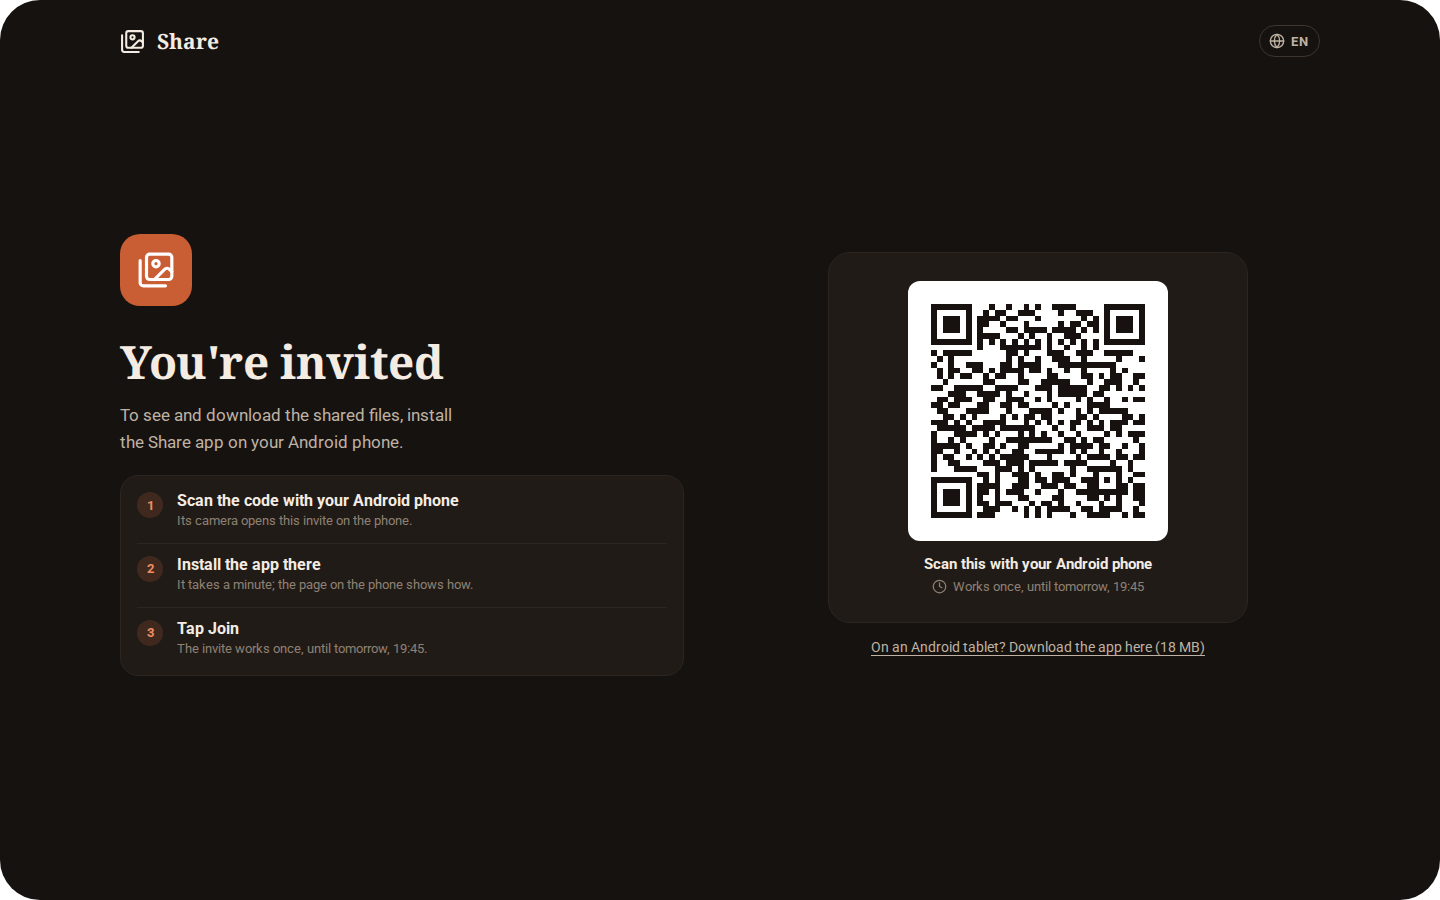
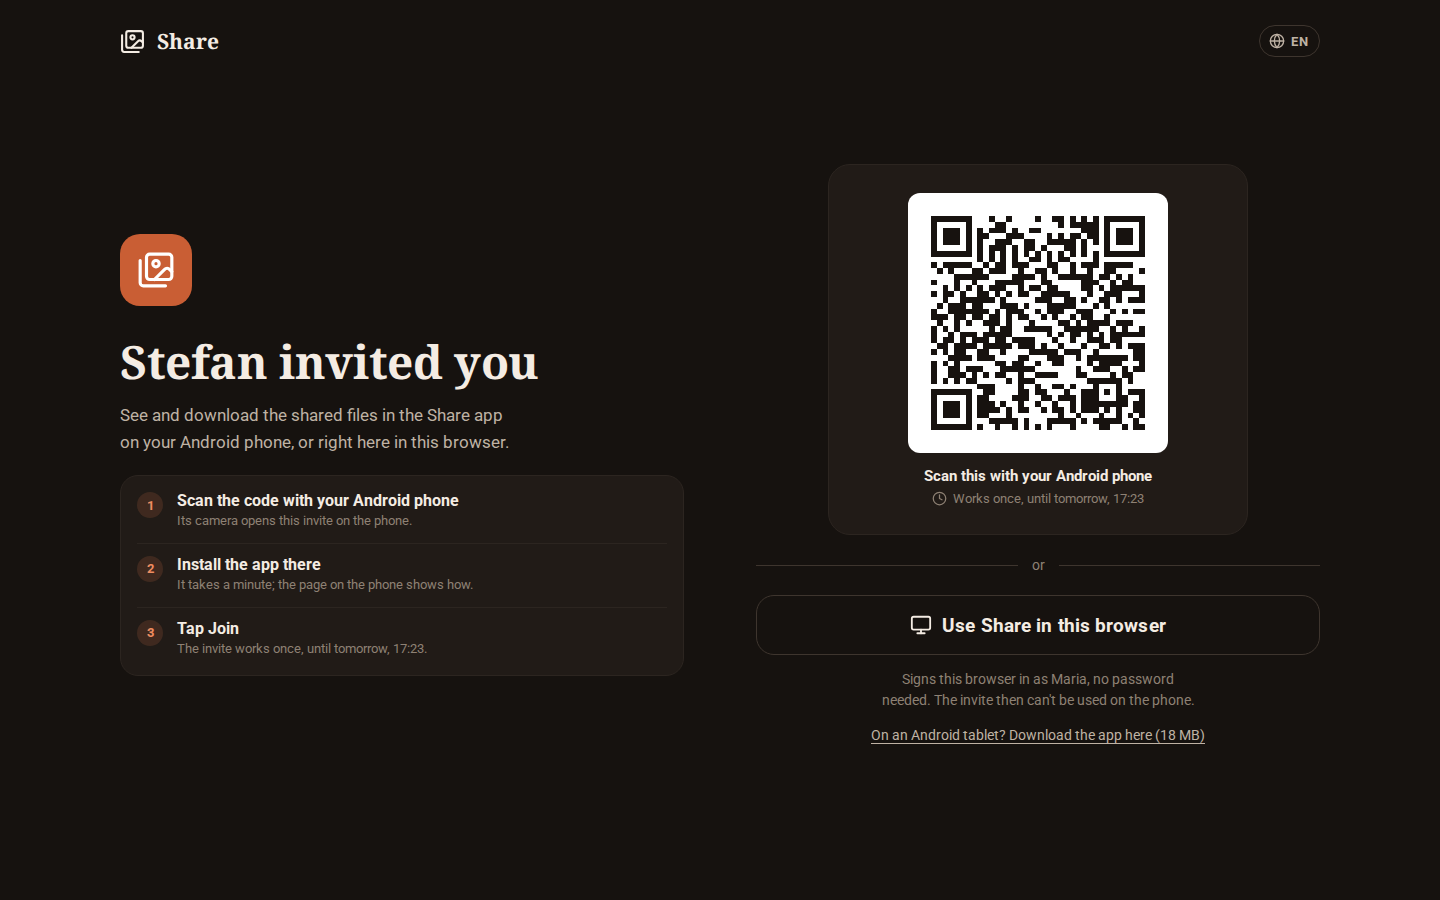
Describe the website for people with an account, with screenshots
The README says that everything the app does works in a browser too, shows
it on a phone and a computer (the library, selecting, one file, saving into a
folder, an admin's settings and PINs, and joining on an iPhone), and lists it
in the status. The invite page's screenshots now show the way into the
browser, and the plan describes browser sessions and downloads.

diff --git a/README.md b/README.md
@@ -5,10 +5,11 @@ A self-hosted place where family and friends drop photos, videos and documents.
 - **Sending** works in any browser with a 5-character PIN: no app, no account. Uploads go in
   pieces and continue after a dropped connection, so videos of several gigabytes get through,
   also behind Cloudflare's 100 MB request limit.
-- **Seeing and downloading** everything is for people with an account, in an Android app.
-  They join with an invite, without a password, and send from the app too. At home the app uses
-  the server's local address and skips the internet. Admins manage PINs and people there, and
-  deleted files wait 30 days in Recently deleted.
+- **Seeing and downloading** everything is for people with an account, in the Android app or in
+  any browser, on iPhones and computers too. They join with an invite, without a password, and
+  send from there as well, without a PIN. At home the app uses the server's local address and skips
+  the internet. Admins manage PINs and people in either, and deleted files wait 30 days in Recently
+  deleted.
 - Files are stored unchanged in one folder per upload day: `<storage_dir>/2026-09-30/IMG_0001.jpg`.
 
 The server is one Go program without dependencies at runtime. It runs on a router or another
@@ -23,7 +24,7 @@ small Linux machine with a USB drive, or on a VPS. The website is embedded in it
     <td align="center"><img src="docs/screenshots/web-pin.png" width="180" alt="Enter your PIN, with three of the five characters typed"><br><sub>Entering the PIN</sub></td>
     <td align="center"><img src="docs/screenshots/web-ready.png" width="180" alt="Send your files: this PIN works until tomorrow, 08:06"><br><sub>Ready, with a 24-hour PIN</sub></td>
     <td align="center"><img src="docs/screenshots/web-sending.png" width="180" alt="Sending your files: 5 of 12, about 3 minutes left"><br><sub>Sending</sub></td>
-    <td align="center"><img src="docs/screenshots/web-join.png" width="180" alt="Stefan invited you: download the app, install it, come back and tap Join"><br><sub>An invite, before the app is installed</sub></td>
+    <td align="center"><img src="docs/screenshots/web-join.png" width="180" alt="Stefan invited you: download the app, install it, come back and tap Join, or use Share in this browser"><br><sub>An invite, on Android</sub></td>
   </tr>
 </table>
 
@@ -35,8 +36,34 @@ small Linux machine with a USB drive, or on a VPS. The website is embedded in it
     <td align="center"><img src="docs/screenshots/web-computer-sending.png" width="380" alt="Sending 6 of 24 files, the progress beside the tiles"><br><sub>Sending, the progress in view</sub></td>
   </tr>
   <tr>
-    <td align="center"><img src="docs/screenshots/web-computer-join.png" width="380" alt="An invite opened on a computer, as a QR code to scan with the Android phone"><br><sub>An invite on a computer, for the phone</sub></td>
+    <td align="center"><img src="docs/screenshots/web-computer-join.png" width="380" alt="An invite opened on a computer: a QR code to scan with the Android phone, or Use Share in this browser"><br><sub>An invite on a computer: the phone or this browser</sub></td>
     <td align="center"><img src="docs/screenshots/web-tablet-sending.png" width="264" alt="Sending on a tablet: one card, five tiles to a row"><br><sub>Sending on a tablet</sub></td>
+  </tr>
+</table>
+
+**The website, for people with an account**, does what the app does:
+
+<table>
+  <tr>
+    <td align="center"><img src="docs/screenshots/web-join-iphone.png" width="180" alt="An invite on an iPhone: this browser will be signed in as Maria, with the button Use Share in this browser"><br><sub>Joining in the browser, on an iPhone</sub></td>
+    <td align="center"><img src="docs/screenshots/web-library.png" width="180" alt="The library on a phone, by upload day"><br><sub>The library, by day</sub></td>
+    <td align="center"><img src="docs/screenshots/web-select.png" width="180" alt="Eight files selected, with Delete and Download 8 at the bottom"><br><sub>Selecting many</sub></td>
+    <td align="center"><img src="docs/screenshots/web-viewer.png" width="180" alt="One photo, with the film strip, Download, Details and Delete"><br><sub>One file</sub></td>
+  </tr>
+</table>
+
+<table>
+  <tr>
+    <td align="center"><img src="docs/screenshots/web-computer-library.png" width="380" alt="The library on a computer, eight tiles to a row, with the search in the header"><br><sub>The library on a computer</sub></td>
+    <td align="center"><img src="docs/screenshots/web-computer-select.png" width="380" alt="Twelve files selected, the actions floating at the bottom"><br><sub>Selecting with the mouse and Shift</sub></td>
+  </tr>
+  <tr>
+    <td align="center"><img src="docs/screenshots/web-computer-save.png" width="380" alt="Saving 12 files into the folder Share, a folder for each day"><br><sub>Saving into a folder, in Chrome and Edge</sub></td>
+    <td align="center"><img src="docs/screenshots/web-computer-viewer.png" width="380" alt="One photo, with arrows, the film strip and its details beside it"><br><sub>One file, with its details</sub></td>
+  </tr>
+  <tr>
+    <td align="center"><img src="docs/screenshots/web-computer-settings.png" width="380" alt="An admin's settings: the list on the left, the people on the right"><br><sub>An admin's settings, with the people</sub></td>
+    <td align="center"><img src="docs/screenshots/web-computer-pins.png" width="380" alt="Upload PINs: a permanent one and one for 24 hours"><br><sub>Upload PINs</sub></td>
   </tr>
 </table>
 
@@ -70,6 +97,10 @@ Both speak English, German and Italian.
 | Website: sending with a PIN, the invite page (English, German, Italian) | works |
 | Website: continuing after the page was closed, install as an app | works |
 | Website: layouts for tablets and computers, dropping files and folders, invites as a QR code | works |
+| Website for people with an account: signing in with a password or an invite, the library, the viewer | works |
+| Website: downloads of one file, of many as a ZIP that resumes, or into a folder (Chrome, Edge) | works |
+| Website: selecting, sharing from phones, deleting with Undo, sending without a PIN | works |
+| Website: upload PINs, people and invites, Recently deleted, storage | works |
 | Android app: see and download | built and tested, not yet tried on a phone |
 | Android app: send, manage PINs and people, Recently deleted | built and tested, not yet tried on a phone |
 | Self-updating app, Google Play, a VPS setup | planned |
@@ -78,8 +109,9 @@ The plan and the screens are in [`docs/`](docs/).
 
 ## How it works
 
-- An admin makes a PIN, in the app or with `share pin create`: a permanent one, for the family, or
-  one for 24 hours, for a party. A PIN link (`https://share.example.com/#K7M2Q`) fills it in.
+- An admin makes a PIN, in the app, on the website or with `share pin create`: a permanent one, for
+  the family, or one for 24 hours, for a party. A PIN link (`https://share.example.com/#K7M2Q`)
+  fills it in.
 - The website sends with [tus](https://tus.io), in pieces of 20 MiB that the server confirms one by
   one, so a dropped connection costs at most one piece. If the page is closed in the middle, it
   offers to continue when it's opened again. It can be installed as an app.
@@ -92,6 +124,11 @@ The plan and the screens are in [`docs/`](docs/).
   when the app is closed, and continue where they stopped after an interruption.
 - At home the app reaches the server on its address at home (`home_url`), plain http or https,
   without Cloudflare and the internet.
+- People with an account can use the website instead of the app, signed in with their password or
+  an invite: the library by day, a viewer that also plays videos, selecting many, sending without a
+  PIN, and an admin's settings. One file downloads as it is; several as one ZIP, whose exact size is
+  known at once and which the browser's download list resumes. Chrome and Edge on a computer can
+  also save them straight into a folder, a folder per day, skipping files already there.
 - Deleted files stay in Recently deleted for 30 days (`trash_days`), and admins can bring them back.
 
 ## Security
@@ -171,7 +208,7 @@ the server on `127.0.0.1:8080`; `npm run dev -- --host` makes it reachable from 
 3. With the drive mounted, run `share init` once. `share check` says whether the drive suits: ext4
    is best, FAT32 can't hold files over 4 GiB.
 4. Run `share serve` as a service. The first start prints an invite for the first admin, who opens
-   it on their phone.
+   it on their phone, or in a browser.
 5. Put it behind a Cloudflare Tunnel ([`deploy/cloudflared`](deploy/cloudflared/README.md)), or let
    it serve HTTPS itself: `"https": {"listen": ":443", "certificate": {"cert_file": "…", "key_file": "…"}}`.
 
@@ -188,8 +225,9 @@ On Windows:
 port's own certificate.
 
 People get the app from the invite page, which offers the APK set in `app.apk_file` and then hands
-the invite to the app. Each release has it as `share.apk`, with `share.apk.json` (its version) to put
-next to it. How to build the APK yourself is in [`app/README.md`](app/README.md).
+the invite to the app; or they use the website in their browser instead, as on an iPhone. Each
+release has the APK as `share.apk`, with `share.apk.json` (its version) to put next to it. How to
+build the APK yourself is in [`app/README.md`](app/README.md).
 
 ## Configuration
 

diff --git a/docs/share-plan.md b/docs/share-plan.md
@@ -1,22 +1,25 @@
 # Share — plan
 
-Status: planning. Screens: [share-mockup.html](share-mockup.html) (numbers below refer to its screens).
+Status: built; what works is in the README's status. Screens: [share-mockup.html](share-mockup.html)
+(numbers below refer to its screens).
 
 Share is a self-hosted place to collect files. Anyone with a PIN sends photos, videos and documents
 through a website, without an account. People with an account see and download everything in an
-Android app, and admins run it from there. Nothing is family-specific: friends and anyone else with a
-PIN or an invite use the same screens. The project is open source, and the app will go on Google Play
-later.
+Android app or on the website, and admins run it from either. Nothing is family-specific: friends
+and anyone else with a PIN or an invite use the same screens. The project is open source, and the
+app will go on Google Play later.
 
 ## Parts
 
 - **Server**: one Go binary. It serves the website, the API, uploads and downloads, and keeps every
   file in a folder set in `config.json`. It runs on the GL.iNet router for now and maybe on a Hetzner VPS
   later, so it must not depend on anything router-specific.
-- **Website** (PWA): for sending only (1–6). Uppy runs headless under our own screens: tus for uploads,
-  Golden Retriever to survive a closed tab. Phones get one column; tablets and computers a card in the
-  middle, or two panes from 1024 points wide. Computers can drop files and folders, and an invite
-  opened there shows a QR code for the phone.
+- **Website** (PWA): for sending with a PIN (1–6), and for people with an account everything the app
+  does (22–37). Uppy runs headless under our own screens: tus for uploads, Golden Retriever to survive
+  a closed tab. Phones get one column and the app's bars; tablets and computers a card in the middle,
+  or two panes from 1024 points wide, and the account's pages a header with Library, Send and
+  Settings. Computers can drop files and folders, and an invite opened there shows a QR code for the
+  phone, or signs in the browser.
 - **App** (Flutter, Android): library, bulk download, sending, and the admin screens (7–21).
 
 ## Access
@@ -30,7 +33,10 @@ later.
   own key, which an admin can revoke.
 - **Admins** delete files (kept 30 days in Recently deleted), manage PINs, and invite, remove or promote
   people.
-- **Signed-in users** send without a PIN (15).
+- **Signed-in users** send without a PIN (15, 29).
+- **Browsers** sign in like phones, with the password or an invite (22, 23), and keep their key in a
+  cookie the page can't read. One that signs in at home, over plain http, gets a session that works
+  only at home: a cookie belongs to an address, and someone else's network has the same addresses.
 - **No uploader names**: the website doesn't ask for one.
 
 ## Library
@@ -39,6 +45,10 @@ later.
 - Grouped by upload day, newest first (11).
 - Downloads: photos and videos go into a "Share" album in the gallery, documents into Downloads; files
   already on the phone are skipped (13).
+- In a browser (24–28): one file downloads as it is; several as one ZIP, stored without compression
+  and laid out before the files are read, so its size is exact and the browser resumes it. Chrome
+  and Edge on a computer can save them into a folder instead, a folder per day, skipping files that
+  are there already (26, 27).
 
 ## Network
 
